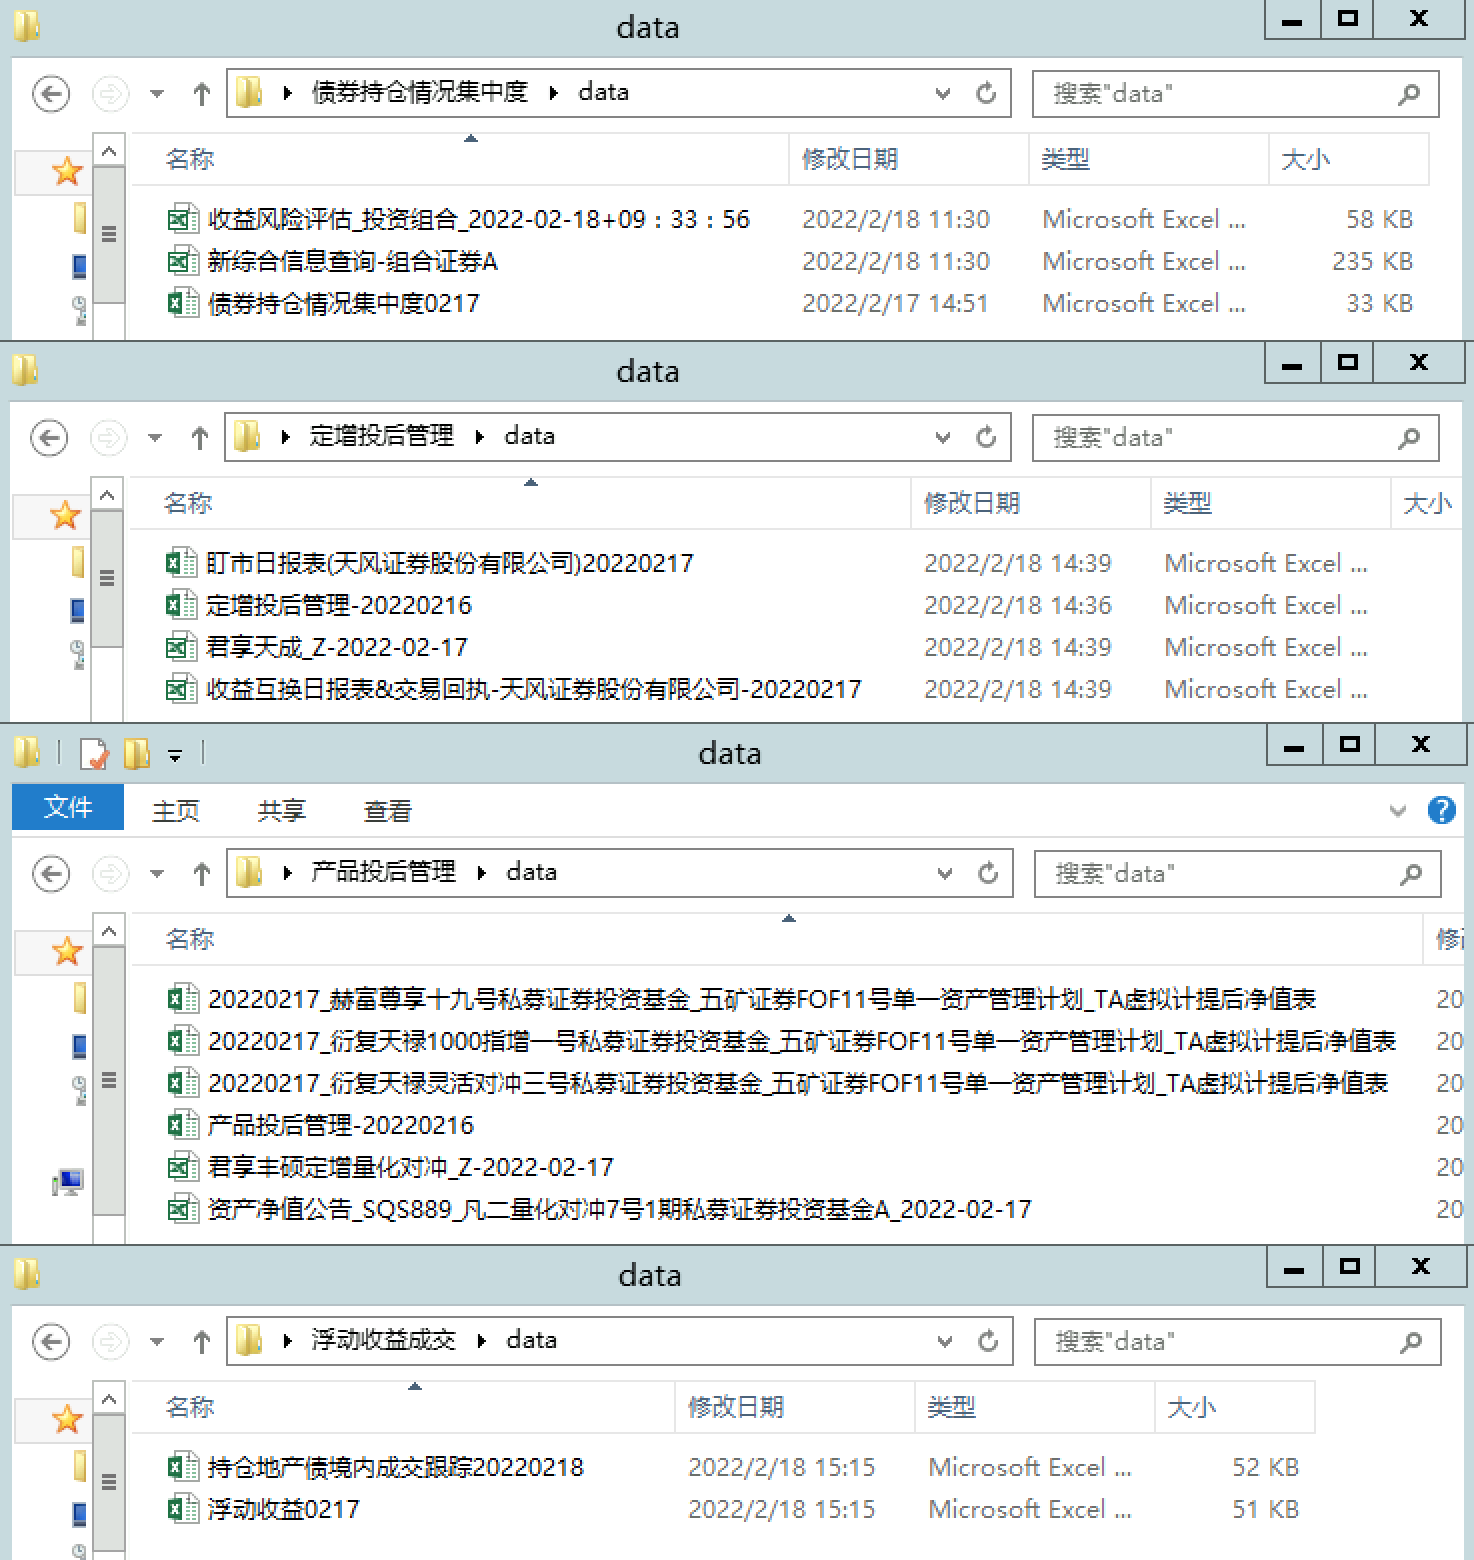
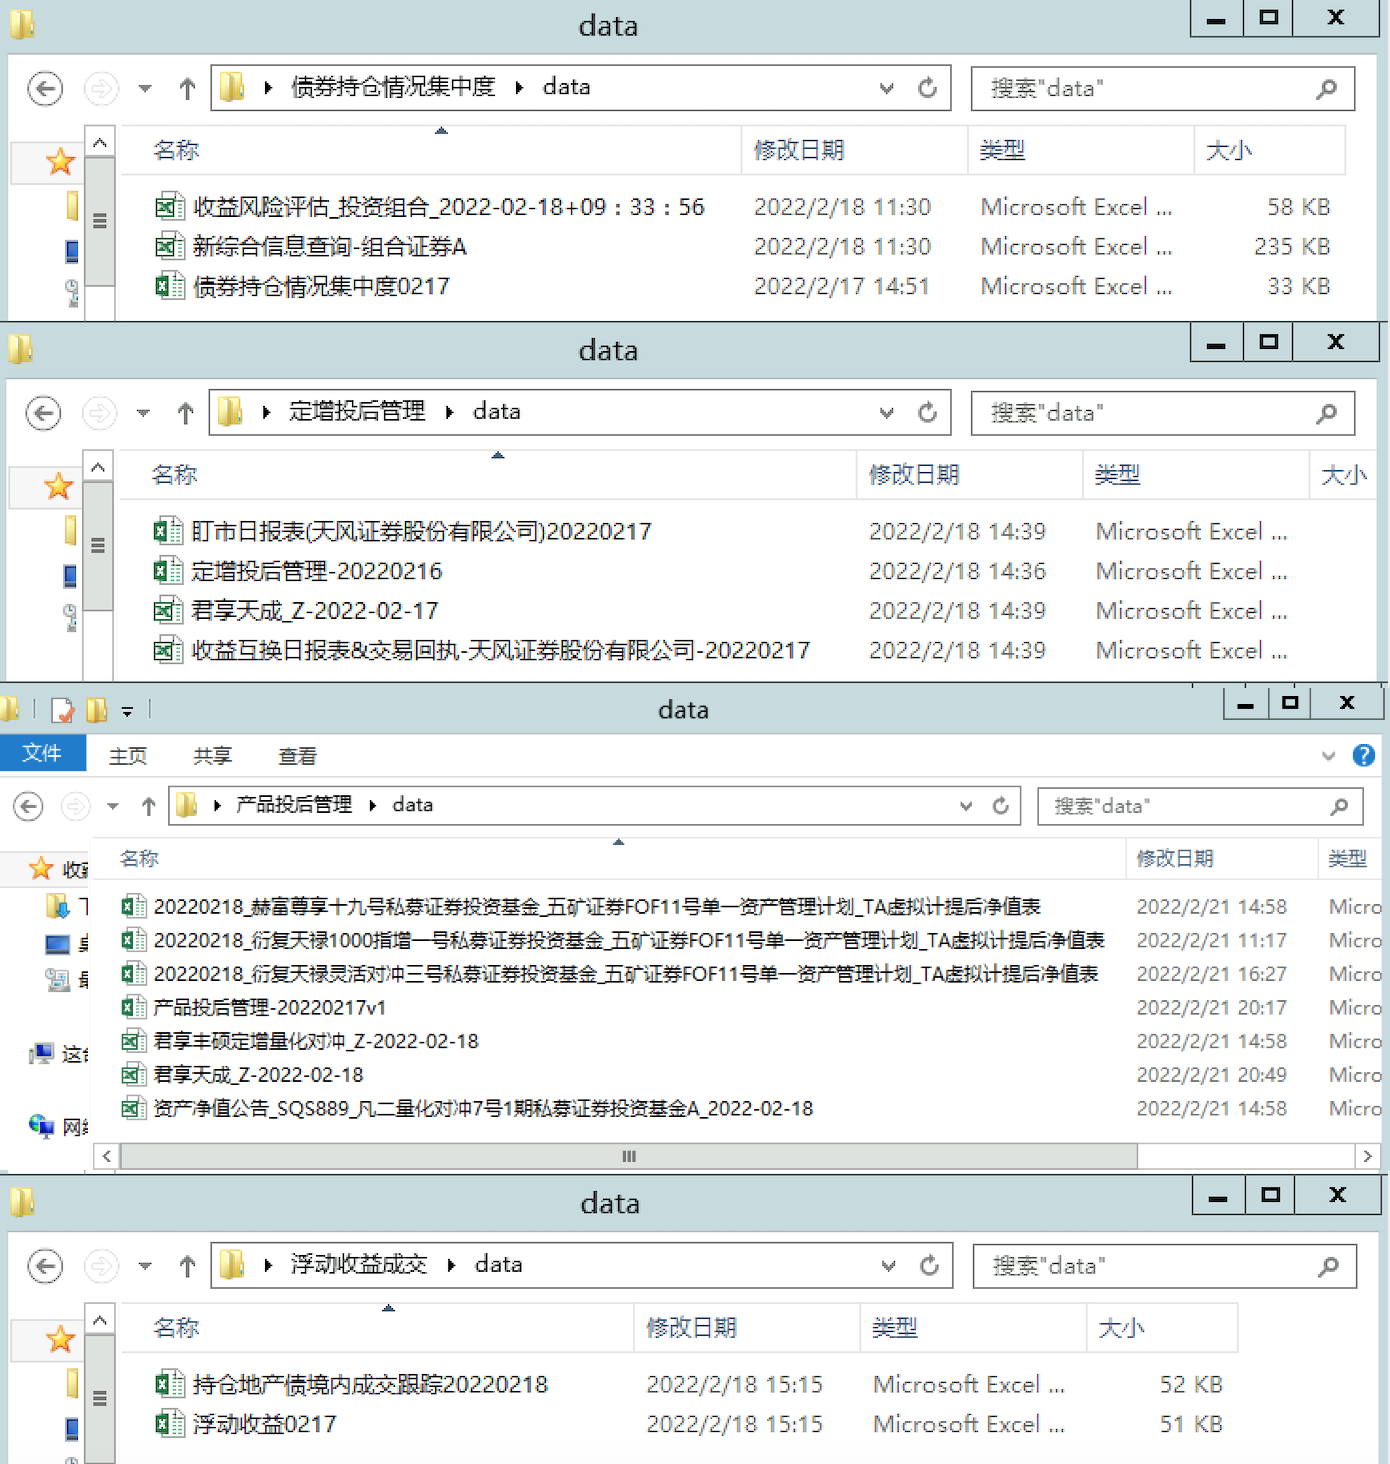
modify readme.md add 21.png modify 9.png

diff --git a/readme.md b/readme.md
@@ -48,6 +48,8 @@
   ![win+r](https://gitee.com/oushisyx318/TF/raw/master/readme_files/7.png)
 * 输出文件的路径展示在任务日志的最后面
   ![win+r](https://gitee.com/oushisyx318/TF/raw/master/readme_files/8.png)
+* 若脚本运行时弹出下面的选框，点击**不更新**即可  
+  ![win+r](https://gitee.com/oushisyx318/TF/raw/master/readme_files/21.png)
 
 #### 4.脚本的输入文件
 
@@ -68,13 +70,14 @@
     * `mail财通基金君享天成单一资产管理计划`的`td-1`君享天成.xls
     * `mail国泰君安收益互换盯市日报`的`td-1`盯市日报表.xlsx
     * `mail收益互换日报表&交易回执`的`td-1`收益呼唤日报表.xls
-  * 产品投后管理：6个
+  * 产品投后管理：7个
     * `./result`中`td-2`的产品投后管理.xlsx
     * `mail资产净值公告_SQS889_凡二量化对冲7号1期私募证券投资基金A`的`td-1`资产净值公告_SQS889_凡二量化对冲7号1期私募证券投资基金A.xls
     * `mail衍复天禄1000指增一号私募证券投资基金_五矿证券FOF11号单一资产管理计划_虚拟计提净值表`的`td-1`衍复天禄1000指增一号私募证券投资基金_五矿证券FOF11号单一资产管理计划_TA虚拟计提后净值表.xlsx
     * `mail财通基金君享丰硕定增量化对冲单一资产管理计划`的`td-1`君享丰硕定增量化对冲_Z.xls
     * `mail赫富尊享十九号私募证券投资基金_五矿证券FOF11号单一资产管理计划_虚拟计提净值表`的`td-1`赫富尊享十九号私募证券投资基金_五矿证券FOF11号单一资产管理计划_TA虚拟计提后净值表.xlsx
     * `mail衍复天禄灵活对冲三号私募证券投资基金_五矿证券FOF11号单一资产管理计划_虚拟计提净值表`的`td-1`衍复天禄灵活对冲三号私募证券投资基金_五矿证券FOF11号单一资产管理计划_TA虚拟计提后净值表.xlsx
+    * `mail 财通基金君享天成单一资产管理计划`的`td-1`君享天成_Z.xls
   * 浮动收益成交：2个
     * `from张老师`的`td-1`浮动收益.xlsx
     * `from张老师`的`td`持仓地产债境内成交跟踪.xlsx
